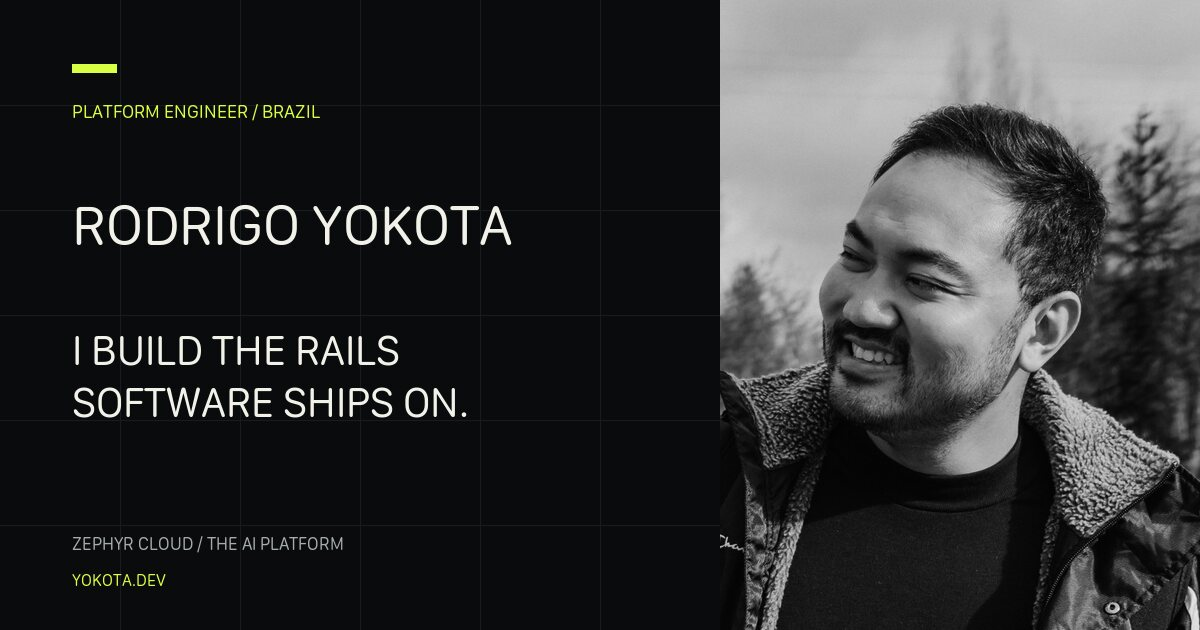
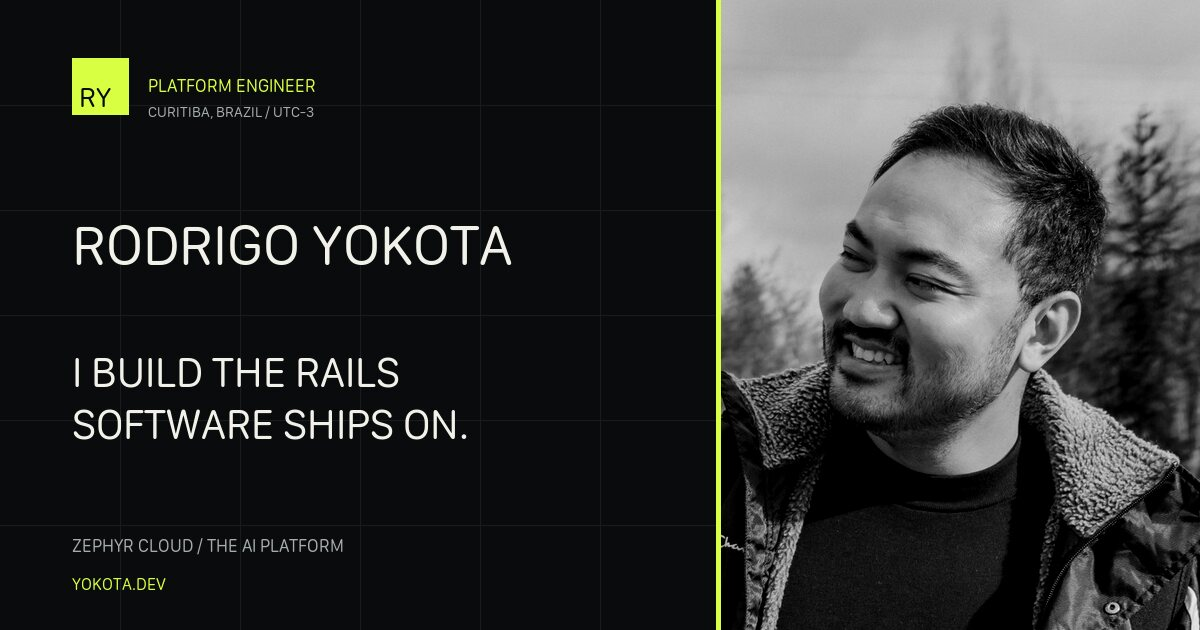
feat: improve social preview and ticker

diff --git a/src/styles/global.css b/src/styles/global.css
@@ -571,8 +571,10 @@ svg {
   display: flex;
   flex: none;
   align-items: center;
+  justify-content: space-around;
+  min-width: 100vw;
   gap: 1.25rem;
-  padding-right: 1.25rem;
+  padding-inline: 0.625rem;
 }
 
 .ticker__group span {

diff --git a/README.md b/README.md
@@ -20,3 +20,5 @@ pnpm preview
 ```
 
 `pnpm build` creates an SEO-friendly static site in `dist` and publishes it through the default `zephyr-astro-integration`. The first build on a new machine opens the Zephyr Cloud login flow; later builds reuse `~/.zephyr`.
+
+Set `SOCIAL_IMAGE_URL` to an absolute, already-published image URL when building a shareable preview. Production builds default to `https://yokota.dev/og-card.jpg`.
